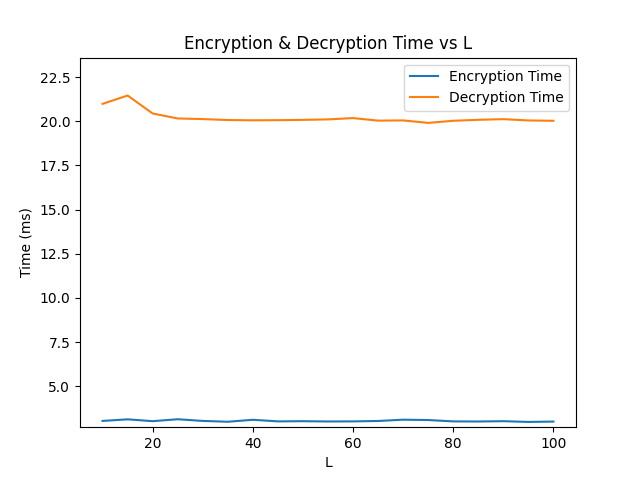
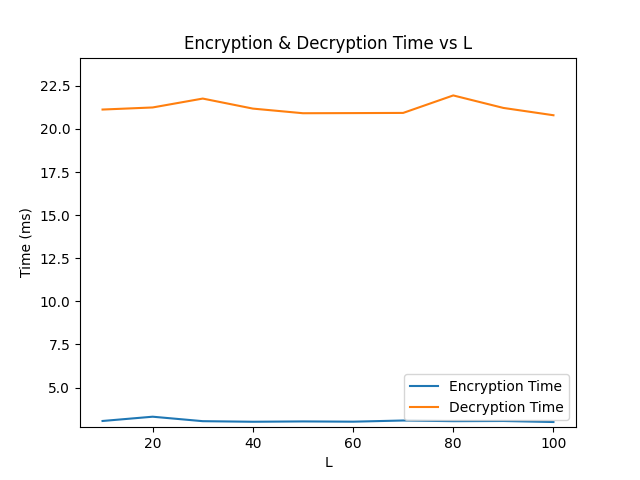
comments added

diff --git a/utils.py b/utils.py
@@ -1,6 +1,10 @@
-from petrelic.multiplicative.pairing import G1, G2, GT, G1Element, G2Element,GTElement, Bn
-from concurrent.futures import ThreadPoolExecutor
+from petrelic.multiplicative.pairing import G1Element, G2Element,GTElement, Bn
 import sqlite3
+'''
+store_crs(): Stores the CRS data in the database
+inputs: CRS (G1, G2, GT, h, Gamma, A, B, U, W)
+output: None
+'''
 def store_crs(A, B, Gamma, U, W, Z, g1, g2, h):
     conn = sqlite3.connect("crs.db")
     cur = conn.cursor()
@@ -36,7 +40,11 @@ def store_crs(A, B, Gamma, U, W, Z, g1, g2, h):
     # Commit the changes and close the connection
     conn.commit()
     conn.close()
-
+'''
+load_crs(): Loads the CRS data from the database
+inputs: L (number of slots) and db_path (path to the database)
+output: CRS (G1, G2, GT, h, Gamma, A, B, U, W)
+'''
 def load_crs(L,db_path='crs.db'):
     conn = sqlite3.connect(db_path)
     cur = conn.cursor()
@@ -74,7 +82,11 @@ def load_crs(L,db_path='crs.db'):
 
     crs = g1, g2, Z, h, Gamma, A, B, U,W
     return crs
-
+'''
+load_public_keys(): Loads the public keys from the database
+inputs: db_path (path to the database) and L (number of slots)
+output: pks (list of public keys)
+'''
 def load_public_keys(db_path, L):
     conn = sqlite3.connect(db_path)
     cur = conn.cursor()
@@ -96,6 +108,11 @@ def load_public_keys(db_path, L):
 
     conn.close()
     return pks
+'''
+load_sk(): Loads the secret key of the ith user from the database
+inputs: sk_db_path (path to the database) and i (index of the user)
+output: sk (secret key) as a Bn object
+'''
 def load_sk(sk_db_path, i):
     with sqlite3.connect(sk_db_path) as conn_sk:
         cur_sk = conn_sk.cursor()
@@ -108,7 +125,11 @@ def load_sk(sk_db_path, i):
             return sk
         else:
             raise ValueError("Secret key not found for index {}".format(i))
-
+'''
+load_attributes(): Loads the attributes of the ith user from the database
+inputs: db_path (path to the database), n (number of attributes) and L (number of slots)
+output: attributes (list of attributes)
+'''
 def load_attributes(db_path, n, L):
     conn = sqlite3.connect(db_path)
     cur = conn.cursor()
@@ -125,7 +146,11 @@ def load_attributes(db_path, n, L):
 
     conn.close()
     return attributes
-
+'''
+store_hsk(): Stores the helping secret key of the ith user in the database
+inputs: db_path (path to the database) and hsk (helping secret key)
+output: None
+'''
 def store_hsk(db_path, hsk):
     conn = sqlite3.connect(db_path)
     cur = conn.cursor()
@@ -160,7 +185,11 @@ def store_hsk(db_path, hsk):
 
     conn.commit()
     conn.close()
-
+'''
+load_hsk(): Loads the helping secret key of the ith user from the database
+inputs: db_path (path to the database) and i (index of the user)
+output: hsk (helping secret key)
+'''
 def load_hsk(db_path, i):
     conn = sqlite3.connect(db_path)
     cur = conn.cursor()
@@ -191,7 +220,11 @@ def load_hsk(db_path, i):
 
     conn.close()
     return g1, g2, i, X_elem, A_elem, B_elem, What_elem
-
+'''
+store_mpk(): Stores the master public key in the database
+inputs: g1, g2, h, Z, Gamma, Uhat (master public key)
+output: None
+'''
 def store_mpk(g1, g2, h, Z, Gamma, Uhat):
     with sqlite3.connect('mpk.db') as conn_mpk:
         cur_mpk = conn_mpk.cursor()
@@ -210,7 +243,11 @@ def store_mpk(g1, g2, h, Z, Gamma, Uhat):
                             [(i, elem.to_binary()) for i, elem in enumerate(Uhat)])
 
         conn_mpk.commit()
-
+'''
+load_mpk(): Loads the master public key from the database
+inputs: db_path (path to the database)
+output: g1, g2, h, Z, Gamma, Uhat (master public key)
+'''
 def load_mpk(db_path):
     conn = sqlite3.connect(db_path)
     cur = conn.cursor()

diff --git a/benchmarks.py b/benchmarks.py
@@ -8,7 +8,11 @@ import matplotlib.pyplot as plt
 
 n = 10
 # L_values = [100, 200, 300, 400, 500, 600, 700, 800, 900, 1000]
-L_values = [10,15,20,25,30,35,40,45,50,55,60,65,70,75,80,85,90,95,100]
+L_values = [10, 20, 30, 40, 50, 60, 70, 80, 90, 100]
+'''
+remove():
+    removes all the files that are created by functions
+'''
 def remove():
     os.remove("crs.db")
     os.remove("pks.db")
@@ -17,6 +21,10 @@ def remove():
     os.remove("hsk.db")
     os.remove("mpk.db")
 
+'''
+convert_size():
+    converts the size of the file into a readable format
+'''
 def convert_size(size_bytes):
     if size_bytes == 0:
         return "0B"
@@ -26,9 +34,18 @@ def convert_size(size_bytes):
     s = round(size_bytes / p, 2)
     return f"{s} {size_name[i]}"
 
+'''
+print_size():
+    prints the size of the file
+'''
 def print_size(file_path):
     print(f"Size of {file_path}: {convert_size(os.path.getsize(file_path))}")
 
+'''
+benchmark():
+    runs the benchmarking for the given L and n
+    Here L is the number of slots, and n is the length of attribute vector
+'''
 def benchmark(L, n):
     print(f"Benchmarking for L={L}, n={n}")
 
@@ -52,7 +69,7 @@ def benchmark(L, n):
     y = [Bn(0)] * n
     m = GT.generator() ** GT.order().random()
 
-    # Encryption
+    # Encryption (100 times) and average time
     enc_times = []
     for _ in range(100):
         start_time = time.time()
@@ -61,7 +78,7 @@ def benchmark(L, n):
         enc_times.append(enc_time)
     avg_enc_time = sum(enc_times) / len(enc_times)
 
-    # Decryption
+    # Decryption (100 times) and average time
     dec_times = []
     for _ in range(100):
         start_time = time.time()
@@ -70,8 +87,10 @@ def benchmark(L, n):
         dec_times.append(dec_time)
     avg_dec_time = sum(dec_times) / len(dec_times)
 
+    # Check if decryption is correct
     assert (m == m_dec)
 
+    # print the results
     print(f"Setup time: {setup_time:.2f} seconds")
     print(f"Aggregate time: {aggregate_time:.2f} seconds")
     print(f"Encryption time: {avg_enc_time:.2f} ms")
@@ -113,7 +132,9 @@ with open("benchmarks.txt", "w") as outfile:
 # Plotting the charts
 
 
-
+'''
+plot_chart():
+'''
 def plot_chart(x, y1, y2, xlabel, ylabel, title, filename, y1_label, y2_label):
     plt.plot(x, y1, label=y1_label)
     plt.plot(x, y2, label=y2_label)
@@ -130,10 +151,6 @@ plt.ylim([min(enc_times + dec_times) * 0.9, max(enc_times + dec_times) * 1.1])
 plot_chart(L_values, enc_times, dec_times, "L", "Time (ms)", "Encryption & Decryption Time vs L", "enc_dec_time.png", "Encryption Time", "Decryption Time")
 plot_chart(L_values, setup_times, aggregate_times, "L", "Time (s)", "Setup & Aggregate Time vs L", "setup_aggregate_time.png", "Setup Time", "Aggregate Time")
 
-# Removing individual Encryption, Decryption, CRS, and MPK charts
-# plot_chart(L_values, enc_times, "L", "Time (ms)", "Encryption Time vs L", "encryption_time.png")
-# plot_chart(L_values, dec_times, "L", "Time (ms)", "Decryption Time vs L", "decryption_time.png")
-# plot_chart(L_values, sizes_crs, "L", "Size (bytes)", "Size of CRS vs L", "size_crs.png")
 def plot_chart2(x, y, xlabel, ylabel, title, filename):
     plt.plot(x, y)
     plt.xlabel(xlabel)
@@ -144,9 +161,5 @@ def plot_chart2(x, y, xlabel, ylabel, title, filename):
 
 sizes_crs_mb = [size / (1024 * 1024) for size in sizes_crs]
 plot_chart2(L_values, sizes_crs_mb, "L", "Size (MB)", "Size of CRS vs L (in MB)", "size_crs_mb.png")
-
-
-
-
 
 print("Benchmark results saved in benchmarks.txt and corresponding charts saved as images.")

diff --git a/algos.py b/algos.py
@@ -4,9 +4,10 @@ import sqlite3
 import utils as utils
 
 '''
-Setup algorithm
-inputs: n, L where n is the size of the attributes vector, and L is the number of slots.
-outputs: crs (g1, g2, Z, h, Gamma, A, B, U, W)
+setup():
+    generates the CRS and stores it in the crs.db file
+    n: number of attributes
+    L: number of users
 '''
 def setup(n, L):
     g1 = G1.generator()
@@ -45,7 +46,14 @@ def setup(n, L):
     utils.store_crs(A, B, Gamma, U, W, Z, g1, g2, h)
 
 
-
+'''
+keyGen():
+    generates the public and secret keys for a user
+    crs_db_path: path to the crs.db file
+    i: user id
+    n: number of attributes
+    L: number of users
+'''
 def keyGen(crs_db_path, i, n, L):
     r = G1.order().random()
     conn = sqlite3.connect(crs_db_path)
@@ -74,7 +82,14 @@ def keyGen(crs_db_path, i, n, L):
     pk = [U1, Wh]
     sk = r
     return pk,sk
-
+'''
+batchKeyGen():
+    generates the public and secret keys for all users
+    db_path: path to the crs.db file
+    n: number of attributes
+    L: number of users
+'''
+#TODO this function already samples random attributes for each user for the purpose of benchmarking, in real world we want to give our attributes directly to aggregate
 def batchKeyGen(db_path, n, L):
     conn_crs = sqlite3.connect(db_path)
 
@@ -145,6 +160,15 @@ def compute_what(W, i, w, L):
         if i != j:
             result = result * W[i][j][w]
     return result
+'''
+aggregate():
+    aggregates the public keys of all users
+    attributes_db_path: path to the attributes.db file
+    pks_db_path: path to the pks.db file
+    crs_db_path: path to the crs.db file
+    n: number of attributes
+    L: number of users
+'''
 def aggregate(attributes_db_path, pks_db_path, crs_db_path, n, L):
     # Load attributes
     X = utils.load_attributes(attributes_db_path, n,L)
@@ -194,16 +218,25 @@ def aggregate(attributes_db_path, pks_db_path, crs_db_path, n, L):
         What[i][n + 1] = What[i][n + 1] ** -1
 
     hsk = [(g1, g2, i, X[i], A[i], B[i], What[i]) for i in range(L)]
+
+    # Store the master public key and the helping secret key
     utils.store_hsk('hsk.db', hsk)
     utils.store_mpk(g1, g2, h, Z, Gamma, Uhat)
 
 
 
-
+'''
+Enc():
+    encrypts a message m for a set of attributes y
+    mpk: master public key
+    y: set of attributes
+    m: message
+'''
 def Enc(mpk, y, m):
     g1, g2, h, Z, Gamma, Uhat = mpk
     n = len(y)
 
+    # Generate random values
     s = G1.order().random()
     r = G1.order().random()
     z = G1.order().random()
@@ -220,7 +253,6 @@ def Enc(mpk, y, m):
     for w in range(n+2):
         t = y1[w].mod_mul(r,G1.order())
         t = t.mod_add(s,G1.order())
-        # t = y1[w] * r + s
         ct2[w] = (h ** t) * Uhat[w] ** (-1*z)
 
     ct = [ct0, ct1, ct2, ct3]
@@ -228,7 +260,13 @@ def Enc(mpk, y, m):
 
 
 
-
+'''
+Dec():
+    decrypts a ciphertext ct
+    hsk: helping secret key
+    sk: secret key
+    ct: ciphertext
+'''
 def Dec(hsk, sk, ct):
     g1, g2, i, X, A, B, What = hsk
     ct0, ct1, ct2, ct3 = ct
